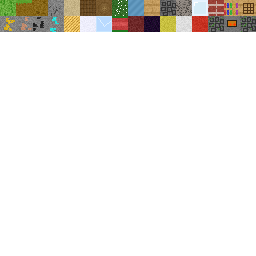
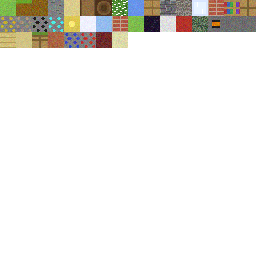
fix: classic MC textures, spawn on land, noon start, better water
- Regenerate terrain_atlas.png with proper Minecraft-classic pixel art:
  bright grass top/side, stone cracks, correct leaf texture (83% opaque
  green with transparent holes), cobblestone, planks, ores, brick etc.
- Add oak leaves (type 6) to TRANSPARENT_TYPES so all faces render and
  tree canopies are fully visible; set renderOrder for leaves/glass/water
- Fix water material: brighter #2463b8 blue, animated wave highlight
  bands, blue tint applied to material for classic MC ocean look
- Start game at noon (dayTime=0.5) instead of dawn so players see a
  bright sky on first load
- Fix spawn logic: scan outward ring-by-ring using getBiome() to find
  non-ocean land up to ±20 chunks instead of only ±5 chunk grid

Changed region(s): [[0.0, 0.0, 1.0, 0.1875]]

diff --git a/client/src/main.ts b/client/src/main.ts
@@ -79,7 +79,7 @@ const MAX_SHIELD_DURABILITY = 50;
 // ── Day/Night cycle ───────────────────────────────────────────────────────────
 
 const DAY_DURATION   = 240; // seconds for a full day/night cycle
-let dayTime          = 0.25; // start at dawn (0=midnight, 0.25=dawn, 0.5=noon, 0.75=dusk)
+let dayTime          = 0.5; // start at noon (0=midnight, 0.25=dawn, 0.5=noon, 0.75=dusk)
 
 const SKY_COLORS = {
   night:  new THREE.Color(0x050510),
@@ -1069,25 +1069,21 @@ async function startGame(name: string) {
     }
   }
 
-  // Find a safe spawn: scan grid for low-elevation (plains/forest) spot
+  // Find a safe spawn: scan outward from origin for plains/forest biome
   {
     let spawnX = 0, spawnZ = 0;
-    let bestY = 9999;
-    // First pass: strict — want plains/forest (63-80)
-    for (let dx = -5; dx <= 5 && bestY === 9999; dx++) {
-      for (let dz = -5; dz <= 5 && bestY === 9999; dz++) {
-        const tx = dx * 16, tz = dz * 16;
-        const h = world.getSurfaceHeight(tx, tz);
-        if (h >= 63 && h <= 80) { bestY = h; spawnX = tx; spawnZ = tz; }
-      }
-    }
-    // Second pass: accept anything solid above sea level
-    if (bestY === 9999) {
-      for (let dx = -5; dx <= 5; dx++) {
-        for (let dz = -5; dz <= 5; dz++) {
+    let found = false;
+    // Search outward ring-by-ring up to ±20 chunks (320 blocks) for non-ocean biome
+    for (let r = 0; r <= 20 && !found; r++) {
+      for (let dx = -r; dx <= r && !found; dx++) {
+        for (let dz = -r; dz <= r && !found; dz++) {
+          if (Math.abs(dx) !== r && Math.abs(dz) !== r) continue; // ring only
           const tx = dx * 16, tz = dz * 16;
-          const h = world.getSurfaceHeight(tx, tz);
-          if (h > 62 && h < bestY) { bestY = h; spawnX = tx; spawnZ = tz; }
+          const biome = world.getBiome(tx, tz);
+          if (biome !== 4) { // not ocean
+            const h = world.getSurfaceHeight(tx, tz);
+            if (h > 62) { spawnX = tx; spawnZ = tz; found = true; }
+          }
         }
       }
     }

diff --git a/client/src/BlockTextures.ts b/client/src/BlockTextures.ts
@@ -155,16 +155,26 @@ let _waterTex: THREE.CanvasTexture | null = null;
 let _waterMat: THREE.MeshLambertMaterial | null = null;
 
 function drawWater(ctx: CanvasRenderingContext2D, t: number) {
-  const w1 = Math.sin(t * 1.1) * 0.5 + 0.5;
-  const w2 = Math.sin(t * 0.65 + 1.3) * 0.5 + 0.5;
-  ctx.fillStyle = "#1a5fa0";
+  // Classic Minecraft water: bright blue base #3F76E4 with lighter wave lines
+  const w1 = Math.sin(t * 0.8) * 0.5 + 0.5;
+  const w2 = Math.sin(t * 0.5 + 1.1) * 0.5 + 0.5;
+  const w3 = Math.sin(t * 1.2 + 2.3) * 0.5 + 0.5;
+  // Base: classic MC blue
+  ctx.fillStyle = "#2463b8";
   ctx.fillRect(0, 0, 16, 16);
-  ctx.fillStyle = `rgba(40,130,210,${0.45 + w1 * 0.3})`;
-  ctx.fillRect(0, Math.round(w1 * 9), 16, 3);
-  ctx.fillStyle = `rgba(80,160,240,${0.2 + w2 * 0.2})`;
-  ctx.fillRect(0, Math.round(w2 * 5) + 6, 16, 2);
-  ctx.fillStyle = `rgba(180,220,255,${0.06 + w1 * 0.06})`;
-  ctx.fillRect(Math.round(w2 * 10), 0, 4, 16);
+  // Lighter wave highlights (horizontal bands that scroll)
+  const y1 = Math.round(w1 * 12);
+  const y2 = Math.round(w2 * 12);
+  const y3 = Math.round(w3 * 10);
+  ctx.fillStyle = "rgba(80,150,240,0.7)";
+  ctx.fillRect(0, y1, 16, 2);
+  ctx.fillStyle = "rgba(60,120,220,0.6)";
+  ctx.fillRect(0, y2, 16, 1);
+  ctx.fillStyle = "rgba(130,190,255,0.45)";
+  ctx.fillRect(0, y3, 16, 1);
+  // Specular glint
+  ctx.fillStyle = `rgba(180,220,255,${0.08 + w1 * 0.10})`;
+  ctx.fillRect(Math.round(w2 * 10), Math.round(w1 * 8), 3, 1);
 }
 
 function getWaterMat(): THREE.MeshLambertMaterial {
@@ -179,10 +189,11 @@ function getWaterMat(): THREE.MeshLambertMaterial {
   _waterMat = new THREE.MeshLambertMaterial({
     map: _waterTex,
     transparent: true,
-    opacity: 0.78,
-    depthWrite: false, // prevent water from occluding things behind it at shallow angles
+    opacity: 0.72,
+    depthWrite: false,
     alphaTest: 0,
-    side: THREE.DoubleSide, // render from below too (no sky bleed-through)
+    side: THREE.DoubleSide,
+    color: 0x4488ff, // tint to enhance blue
   });
   return _waterMat;
 }

diff --git a/client/src/World.ts b/client/src/World.ts
@@ -308,8 +308,8 @@ export class World {
 
   // ── Opaque check ──────────────────────────────────────────────────────────
   private static readonly TRANSPARENT_TYPES = new Set([
-    7,9,21,50,51,52,56,57,58,83,84,85,86,87,88
-  ]);
+    6,7,9,21,50,51,52,56,57,58,83,84,85,86,87,88,102,103,109
+  ]); // 6=leaves always counted transparent so canopy renders all faces
   static isOpaque(type: number): boolean {
     return type > 0 && !World.TRANSPARENT_TYPES.has(type);
   }
@@ -332,7 +332,8 @@ export class World {
     mesh.castShadow     = false;
     mesh.receiveShadow  = false;
     mesh.frustumCulled  = false;
-    if (blockType === 7) mesh.renderOrder = 1; // water last
+    if (blockType === 7) mesh.renderOrder = 2; // water last
+    else if ([6,84,86,88,9,21].includes(blockType)) mesh.renderOrder = 1; // leaves+glass after opaque
     this.scene.add(mesh);
     this.instancedMeshes.set(blockType, mesh);
     this.instanceCount.set(blockType, 0);
